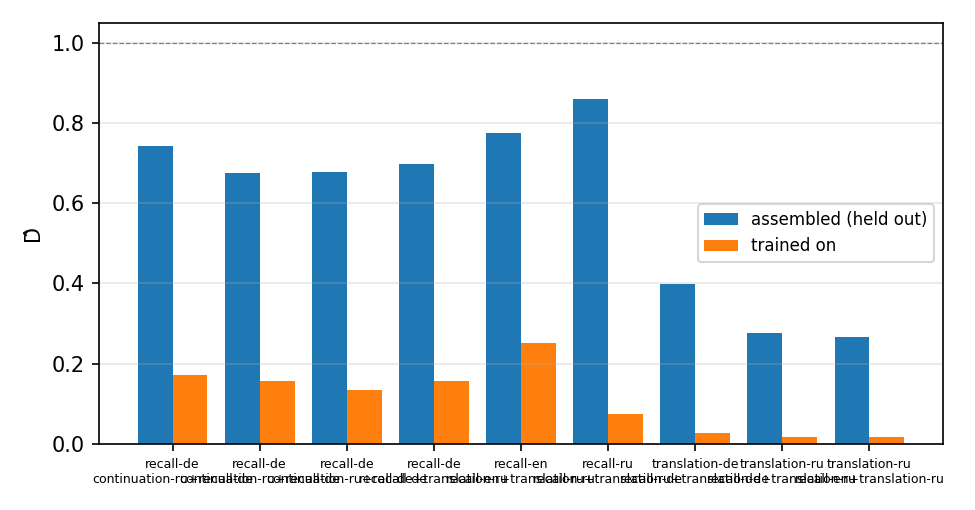
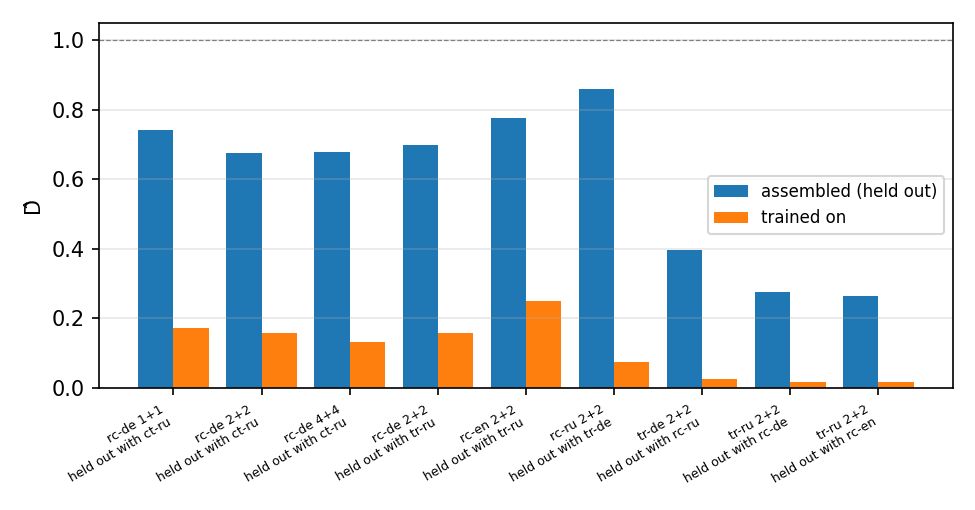
Readable labels on the composition figure

diff --git a/prefixlab/analysis/plots.py b/prefixlab/analysis/plots.py
@@ -124,7 +124,9 @@ def plot_compose(ho: pd.DataFrame):
     x = np.arange(len(ho))
     ax.bar(x - 0.2, ho.D_assembled, 0.4, label="assembled (held out)")
     ax.bar(x + 0.2, ho.D_trained, 0.4, label="trained on")
-    ax.set_xticks(x); ax.set_xticklabels([f"{c}\n{h}" for c, h in zip(ho.cell, ho.holdout)], fontsize=6, rotation=0)
+    short = lambda c: c.replace("translation", "tr").replace("recall", "rc").replace("continuation", "ct")
+    ax.set_xticks(x); ax.set_xticklabels([f"{short(c)} {int(kt)}+{int(kl)}\nheld out with {short(h).replace(short(c), '').strip('+')}"
+                                          for c, h, kt, kl in zip(ho.cell, ho.holdout, ho.k_task, ho.k_lang)], fontsize=6, rotation=30, ha="right")
     ax.axhline(1.0, color="grey", lw=0.6, ls="--"); ax.set_ylabel("D̂"); ax.legend(fontsize=8); ax.grid(axis="y", alpha=0.3)
     fig.tight_layout()
     return fig
